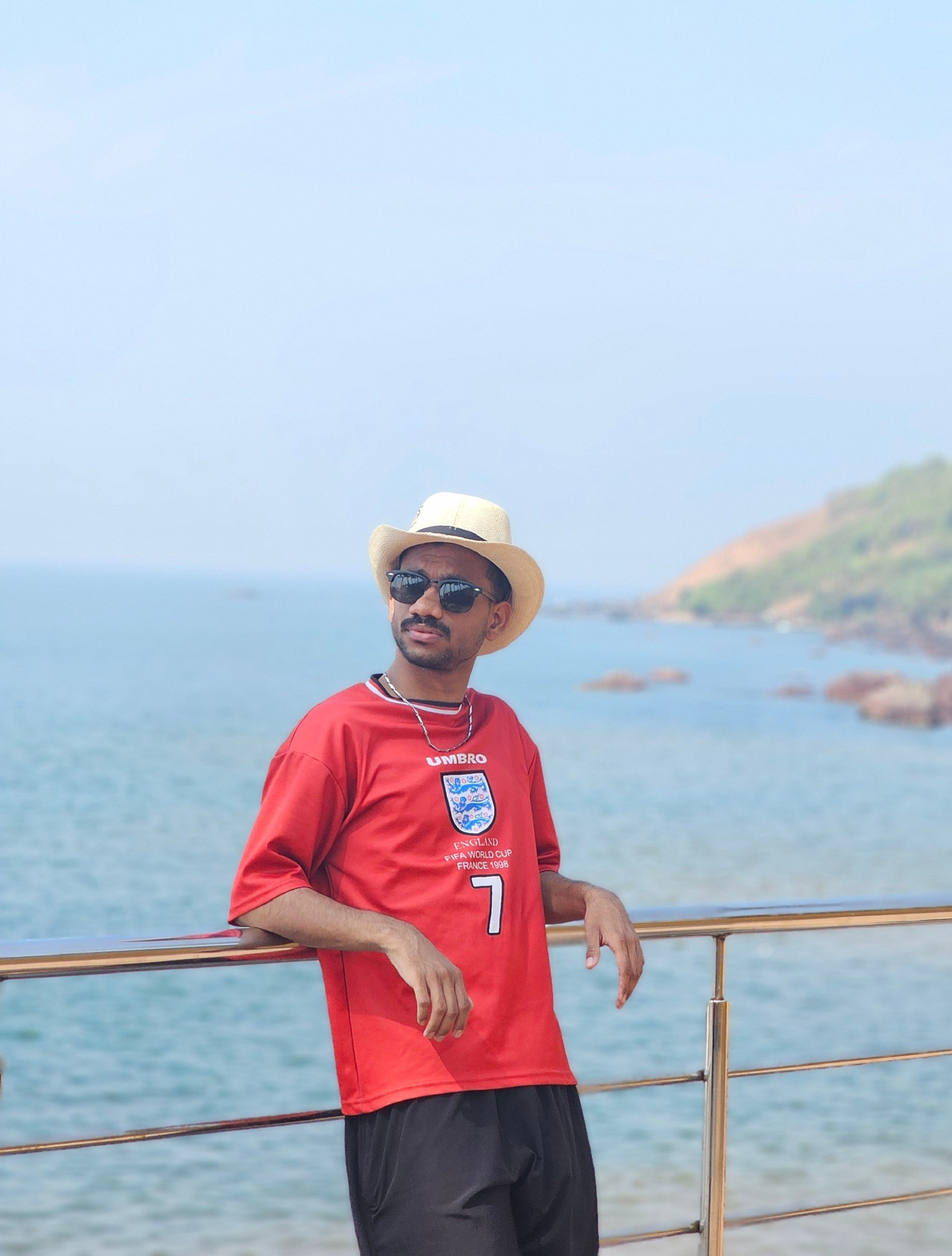
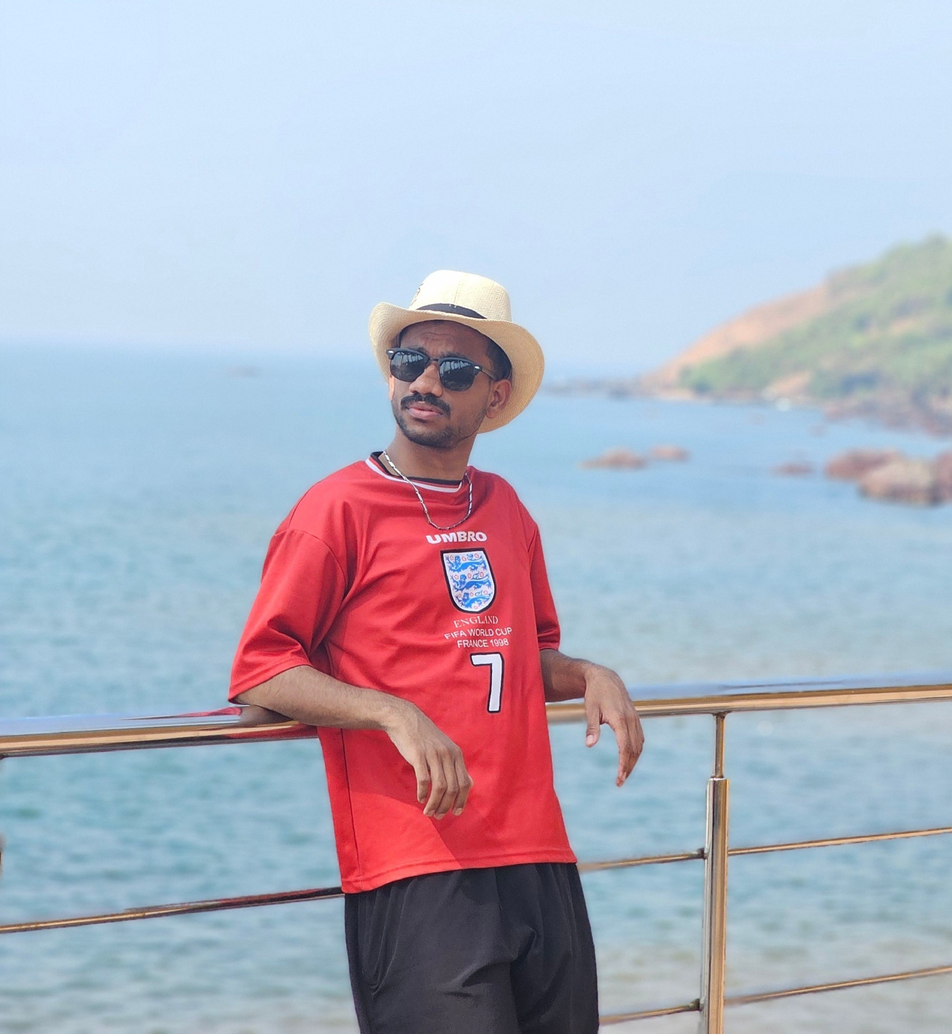
feat: implement interactive animations, tab switching, and AJAX form handling with new asset resources

diff --git a/index.html b/index.html
@@ -55,10 +55,10 @@
       rel="icon"
       type="image/png"
       sizes="32x32"
-      href="asset/images/logo/favicon-32x32.png" />
+      href="asset/images/logo/favicon.png" />
     <link
       rel="apple-touch-icon-precomposed"
-      href="asset/images/logo/favicon-192x192.png" />
+      href="asset/images/logo/favicon.png" />
   </head>
 
   <body class="counter-scroll">
@@ -236,11 +236,11 @@
       <!-- left-sidebar -->
       <div class="left-sidebar">
         <div class="heading">
-          <img style="width: 60px" src="asset/images/logo/favicon.png" alt="" />
+          <img style="width:32px" src="asset/images/logo/favicon.png" alt="" />
           <div class="box-status">
             <div class="dot"></div>
             <div class="text-body-1">
-              Available for projects <span class="number"></span>
+              Available for <span class="number">3 projects</span>
             </div>
           </div>
         </div>
@@ -253,7 +253,7 @@
               alt="photo" />
           </div>
           <img
-            style="margin-top: -25px"
+            style="margin-top: -20px"
             class="lazyload signature"
             src="asset/images/section/signature-1.png"
             data-src="asset/images/section/signature-1.png"
@@ -339,7 +339,7 @@
                         class="text-body-2 wow fadeInUp"
                         data-wow-delay="0.1s"
                         href="#"
-                        >React & Frontend</a
+                        >Frontend & Backend</a
                       >
                     </li>
                     <li>
@@ -934,6 +934,19 @@
                           </div>
                           <div class="text-body-1">
                             Component-based UI architecture
+                          </div>
+                        </div>
+                      </div>
+                      <div class="swiper-slide">
+                        <div class="tech-stack-item">
+                          <h3 class="fw-medium title">NextJS</h3>
+                          <div class="image">
+                            <img
+                              src="asset/images/section/nextjs.png"
+                              alt="React logo" />
+                          </div>
+                          <div class="text-body-1">
+                            React Framework
                           </div>
                         </div>
                       </div>
@@ -1581,7 +1594,7 @@
     <script src="asset/js/infinityslide.js"></script>
     <script src="asset/js/plugin.js"></script>
     <script src="asset/js/lightbox.min.js"></script>
-    <script src="asset/js/main.js"></script>
+    <script src="asset/js/main.js?v=1.0.2"></script>
     <!-- /Javascript -->
   </body>
 

diff --git a/asset/js/main.js b/asset/js/main.js
@@ -332,16 +332,21 @@
     var stickyTabs = function () {
         let sectionIds = $('a.scroll-to');
         $(document).scroll(function () {
+            let scrollPosition = $(document).scrollTop();
             sectionIds.each(function () {
                 let container = $(this).attr('href');
-                let containerOffset = $(container).offset().top;
-                let containerHeight = $(container).outerHeight();
-                let containerBottom = containerOffset + containerHeight;
-                let scrollPosition = $(document).scrollTop();
-                if (scrollPosition < containerBottom - 20 && scrollPosition >= containerOffset - 20) {
-                $(this).addClass('active');
-                } else {
-                $(this).removeClass('active');
+                if (container && container.startsWith('#') && $(container).length > 0) {
+                    let offset = $(container).offset();
+                    if (offset) {
+                        let containerOffset = offset.top;
+                        let containerHeight = $(container).outerHeight();
+                        let containerBottom = containerOffset + containerHeight;
+                        if (scrollPosition < containerBottom - 20 && scrollPosition >= containerOffset - 20) {
+                            $(this).addClass('active');
+                        } else {
+                            $(this).removeClass('active');
+                        }
+                    }
                 }
             });
         });
